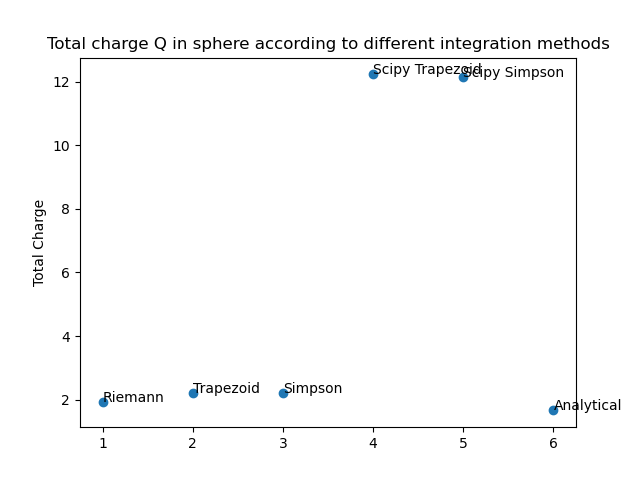
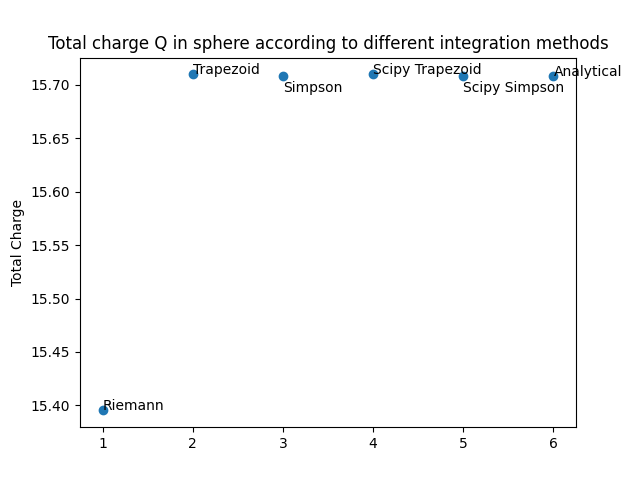
Solved scipy issues

diff --git a/project_one/integral_solver.py b/project_one/integral_solver.py
@@ -1,20 +1,18 @@
 '''
 Integral Solver
-you must implement an integrator using the simple riemann sum, the trapezoidal rule, 
-and simpson's rule. In the case of the trapezoidal and simpson's rule, compare to 
-the similar implementations in Scipy. 
+Methods for Riemann sum, trapezoidal rule, simpson's rule, scipy's trapzoidal solution, scipy's simpson's solution, and analytical solution
+Returns the solutions to the main script
+Solving for the enclosed charge of a sphere with a charge density of rho(r) = kr
 '''
 import scipy.integrate as integrate
 import numpy as np
-k = 5
 
-#rho(r) is the charge density
-#For this solid sphere, the charge is evenly distributed throughout the sphere
-#K represents any constant
-#To find Q, we must do a spherical integral over rho which simplifies to Q = 4 pi * integ rho(r) * r^2 dr
+#K is just a constant that can be assigned to any numerical value
+k = 5 
 
+#The equation to integrate over is rho(r) * r**2 * dr because we are integrating in spherical coordinates
 def rho(r):
-    return k*(r**2)
+    return k*(r**3)
 
 def riemann(step_size, radius, max_r):
     solution_out = []
@@ -25,12 +23,12 @@ def riemann(step_size, radius, max_r):
     ri = step_size #Can't start r at 0, otherise get a divide by 0 error
     total_sum = 0
     while ri < radius:
-        new_in = step_size * rho(ri)
+        new_in = 4 * np.pi * step_size * rho(ri) #4pi is from the theta and phi portion
         total_sum += new_in
         solution_in.append(total_sum)
         r_in.append(ri)
         ri += step_size
-    while ro < max_r: #Outside of the sphere, the total charge is constant
+    while ro < max_r: #Outside of the sphere, the enclosed charge Q is just the total charge of the sphere
         solution_out.append(total_sum)
         r_out.append(ro)
         ro += step_size
@@ -46,11 +44,11 @@ def trap(step_size, radius, max_r):
     total_sum = 0
     while ri < radius:
         r_in.append(ri)
-        new_in = 0.5 * step_size * (rho(ri) + rho(ri + step_size))
+        new_in = 4 * np.pi * 0.5 * step_size * (rho(ri) + rho(ri + step_size))
         total_sum += new_in
         solution_in.append(total_sum)
         ri += step_size
-    while ro < max_r: #Outside of the sphere, the total charge is constant
+    while ro < max_r: 
         r_out.append(ro)
         solution_out.append(total_sum)
         ro += step_size
@@ -66,12 +64,12 @@ def simpson(step_size, radius, max_r):
     ri = step_size
     total_sum = 0
     while ri < radius:
-        new_in = (step_size/6) * (rho(ri) + 4 * rho(0.5 * (ri + ri + step_size)) + rho(ri + step_size))
+        new_in = 4 * np.pi * (step_size/6) * (rho(ri) + 4 * rho(0.5 * (ri + ri + step_size)) + rho(ri + step_size))
         total_sum += new_in
         solution_in.append(total_sum)
         r_in.append(ri)
         ri += step_size
-    while ro < max_r: #Outside the sphere, the total charge is constant
+    while ro < max_r: 
         solution_out.append(total_sum)
         r_out.append(ro)
         ro += step_size
@@ -79,19 +77,21 @@ def simpson(step_size, radius, max_r):
     return r_in, r_out, solution_in, solution_out, total_sum
 
 def scipy_trap(step_size, radius):
-    r = np.arange(0, radius, step_size)
-    sci_trap = integrate.trapezoid(rho(r))
+    n = round(radius/step_size)
+    r = np.linspace(0, radius, num=n)
+    sci_trap = 4 * np.pi * integrate.trapz(rho(r), r)
     return sci_trap
 
 def scipy_simp(step_size, radius):
-    r = np.arange(0, radius, step_size)
-    sci_simp = integrate.simpson(rho(r))
+    n = round(radius/step_size)
+    r = np.linspace(0, radius, num=n)
+    sci_simp = 4 * np.pi * integrate.simpson(rho(r), r)
     return sci_simp
 
 def analytical(step_size, radius, max_r):
-    total_Q = k/3
+    total_Q = np.pi * k * (radius**4)
     r_in = np.arange(step_size, radius, step_size)
     r_out = np.arange(radius, max_r, step_size)
-    e_in = k/3 * r_in
-    e_out = k/3 * (1/r_out**2)
+    e_in = k * np.pi * (r_in**2)
+    e_out = total_Q * (1/r_out**2)
     return r_in, r_out, e_in, e_out, total_Q

diff --git a/project_one/main_script.py b/project_one/main_script.py
@@ -61,9 +61,9 @@ if whatchadoin == "1":
     plt.scatter(x_scatter, y_scatter)
     plt.annotate("Riemann", (1, r_total))
     plt.annotate("Trapezoid", (2, t_total))
-    plt.annotate("Simpson", (3, s_total))
+    plt.annotate("Simpson", (3, s_total - 0.015))
     plt.annotate("Scipy Trapezoid", (4, sci_trap_Q))
-    plt.annotate("Scipy Simpson", (5, sci_simp_Q))
+    plt.annotate("Scipy Simpson", (5, sci_simp_Q - 0.015))
     plt.annotate("Analytical", (6, aq_tot))
     plt.ylabel("Total Charge")
     plt.title("Total charge Q in sphere according to different integration methods")
@@ -106,7 +106,7 @@ elif whatchadoin == "2":
     plt.figure(1)
     plt.plot(t_list, temp_eu, label = "Euler", color = "blue", linestyle = "dashed", linewidth = 3)
     plt.plot(t_list, temp_rk, label = "Runge-Kutta", color = "purple", linestyle = "dashed", linewidth = 3)
-    plt.plot(t_list_sci, sci_sol, label = "Scipy solution", color = "red", linestyle = "dashed")
+    plt.plot(t_list_sci, sci_sol, label = "Scipy solution", color = "red", linestyle = "dashed", linewidth = 3)
     plt.plot(analytic_time, analytic_sol, label = "Exact solution", color = "green")
     plt.xlabel("Time (s)")
     plt.ylabel("Temperature (K)")

diff --git a/project_one/ode_solver.py b/project_one/ode_solver.py
@@ -1,12 +1,8 @@
 '''
 ODE Solver
-You must implement an ODE integrator/evolver by hand. You should implement both 
-Euler's method and 4th order Runge-kutta (you do not need to derive the weights). 
-You must also compare to one provided by the Scipy library. 
+Methods for Euler's method, 4th order Runge-kutta method, scipy's solution, and analytical solution
+Returns the solutions to the main script
 '''
-#Newton's law of Cooling?
-#https://en.wikipedia.org/wiki/Newton%27s_law_of_cooling
-#https://knowledge.carolina.com/discipline/physical-science/physics/newtons-law-of-cooling/
 import numpy as np
 import scipy as sp
 from scipy.integrate import odeint
@@ -50,7 +46,7 @@ def rungekutta(h, t_0, max_t, temp_0, temp_env): #h is step size
 
 def scipy_sol(h, max_t, y_0, temp_env):
     t_eval = np.arange(0, max_t, h)
-    sci_sol = odeint(func, y_0, t_eval, args=(temp_env,))
+    sci_sol = odeint(func, y_0, t_eval, args=(temp_env,), tfirst=True)
     return t_eval, sci_sol
 
 def analytic_sol(h, y_0, max_t, temp_env):
